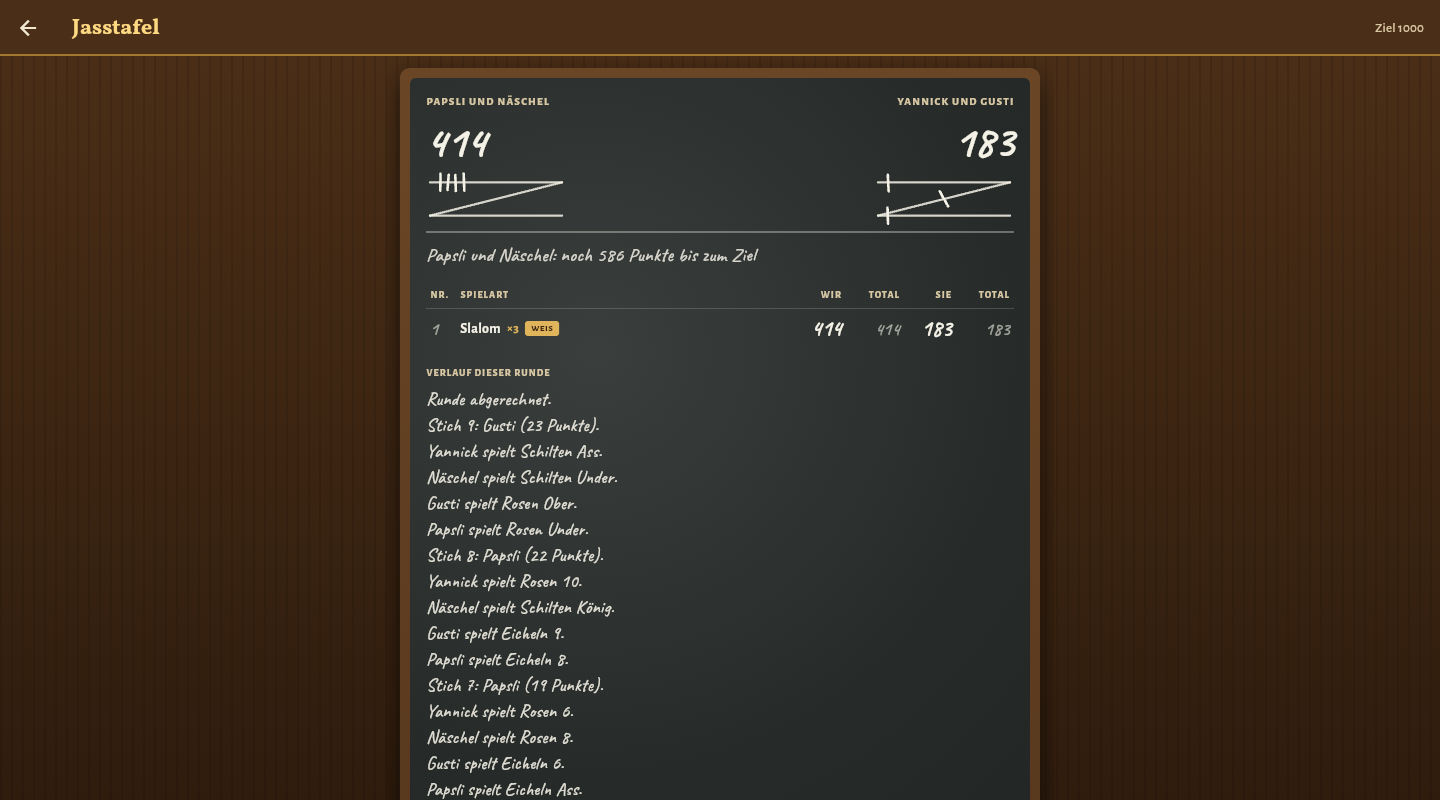
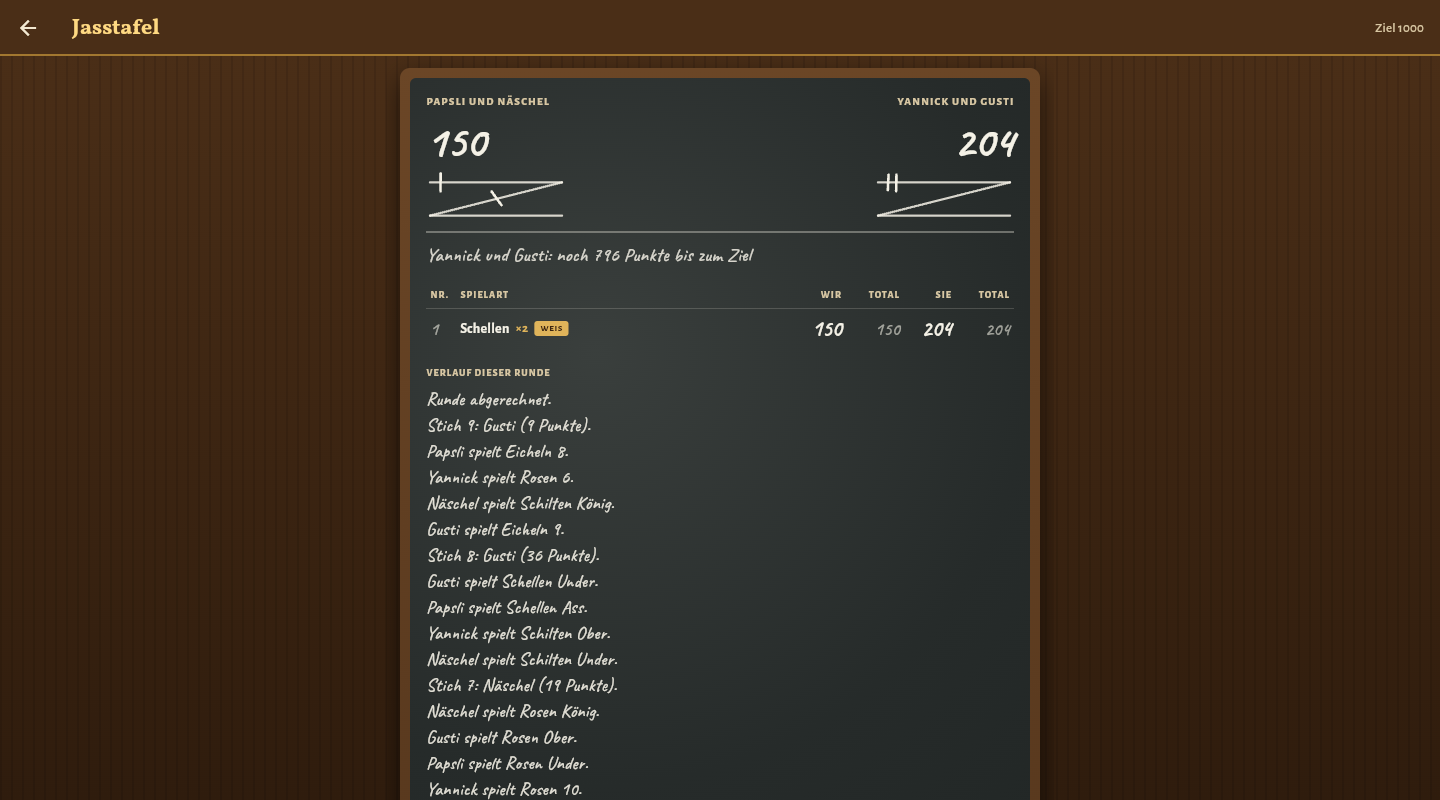
Bieter beginnt die Partie, Slalom-Runde zählt 157
- Bieterjass: Der Höchstbietende ist in der ersten Runde Vorhand – er sagt
  die Spielart an und spielt die erste Karte aus. Ab der zweiten Runde
  sagt wie üblich die Vorhand nach dem Geber an.
- Slalom: Nur die Rangfolge wechselt von Stich zu Stich; die Kartenwerte
  bleiben die der angesagten Richtung. Damit ergibt eine Runde in jeder
  Spielart 157 Punkte statt je nach Verteilung bis zu 179.
- Das Slalom-Fixture der Web-App ist entfernt, weil sie je Stich zählte;
  die Parität für die übrigen Schieber-Partien bleibt.

diff --git a/packages/jass_engine/test/slalom_stoeck_test.dart b/packages/jass_engine/test/slalom_stoeck_test.dart
@@ -54,11 +54,37 @@ void main() {
       expect(trickWinner(trick, RoundMode.slalom.trickMode(1)), 0);
     });
 
-    test('Kartenwerte folgen der Spielart des Stichs', () {
-      expect(cardPoints(card('rosen_ass'), RoundMode.slalom.trickMode(0)), 11);
-      expect(cardPoints(card('rosen_ass'), RoundMode.slalom.trickMode(1)), 0);
-      expect(cardPoints(card('rosen_6'), RoundMode.slalom.trickMode(0)), 0);
-      expect(cardPoints(card('rosen_6'), RoundMode.slalom.trickMode(1)), 11);
+    test('Kartenwerte folgen der angesagten Richtung, nicht dem einzelnen Stich', () {
+      // Von oben angesagt: das Ass zaehlt, die Sechs nicht - in jedem Stich.
+      expect(cardPoints(card('rosen_ass'), RoundMode.slalom), 11);
+      expect(cardPoints(card('rosen_6'), RoundMode.slalom), 0);
+      // Von unten angesagt: umgekehrt.
+      expect(cardPoints(card('rosen_ass'), RoundMode.slalomUneUfe), 0);
+      expect(cardPoints(card('rosen_6'), RoundMode.slalomUneUfe), 11);
+      // Darum ergibt eine Slalom-Runde wie jede andere 157 Punkte.
+      for (final mode in [RoundMode.slalom, RoundMode.slalomUneUfe]) {
+        expect(handValue(JassCard.deck, mode) + RuleSet.bachmann.lastTrickBonus, 157);
+      }
+    });
+
+    test('eine ganze Slalom-Runde ergibt 157 Punkte', () {
+      for (var seed = 1; seed <= 20; seed += 1) {
+        for (final mode in [RoundMode.slalom, RoundMode.slalomUneUfe]) {
+          var state = step(
+            createGame(variant: GameVariant.schieber, seed: seed),
+            const StartRound(),
+          );
+          state = step(state, ChooseMode(state.currentPlayer, mode));
+          while (state.phase != GamePhase.roundEnd && state.phase != GamePhase.gameOver) {
+            state = step(state, aiDecide(state) ?? const NextTrick());
+          }
+          expect(
+            state.players.fold(0, (sum, player) => sum + player.pointsWon),
+            157,
+            reason: 'Seed $seed, $mode',
+          );
+        }
+      }
     });
 
     test('kennt keinen Trumpf und zaehlt dreifach', () {

diff --git a/packages/jass_engine/test/ai_test.dart b/packages/jass_engine/test/ai_test.dart
@@ -28,16 +28,9 @@ GameState aiRound(GameState state) {
   return current;
 }
 
-/// Punkte der Runde, Stich fuer Stich nach der jeweiligen Spielart gezaehlt
-/// (im Slalom wechselt sie, darum ist die Summe dort nicht fest 157).
-int roundTrickPoints(GameState state) {
-  final mode = state.roundMode!;
-  var total = state.rules.lastTrickBonus;
-  for (var index = 0; index < state.roundTricks.length; index += 1) {
-    total += trickPoints(state.roundTricks[index].cards, mode.trickMode(index));
-  }
-  return total;
-}
+/// Punkte der Runde inklusive letztem Stich; in jeder Spielart 157.
+int roundTrickPoints(GameState state) =>
+    state.players.fold(0, (sum, player) => sum + player.pointsWon);
 
 void main() {
   group('Handbewertung', () {
@@ -185,11 +178,7 @@ void main() {
         );
         final ended = aiRound(step(state, const StartRound()));
         final summary = ended.roundSummary! as SchieberRoundSummary;
-        expect(
-          summary.results.fold(0, (sum, result) => sum + result.trickPoints),
-          roundTrickPoints(ended),
-        );
-        expect(ended.roundMode!.isSlalom || roundTrickPoints(ended) == 157, isTrue);
+        expect(summary.results.fold(0, (sum, result) => sum + result.trickPoints), 157);
         expect(summary.results.fold(0, (sum, result) => sum + result.tricksWon), 9);
       }
     });
@@ -199,11 +188,7 @@ void main() {
         final state = createGame(variant: GameVariant.bieter, seed: 20000 + index);
         final ended = aiRound(step(state, const StartRound()));
         expect(ended.players.every((player) => player.hand.isEmpty), isTrue);
-        expect(ended.roundMode!.isSlalom || roundTrickPoints(ended) == 157, isTrue);
-        expect(
-          ended.players.fold(0, (sum, player) => sum + player.pointsWon),
-          roundTrickPoints(ended),
-        );
+        expect(roundTrickPoints(ended), 157);
       }
     });
 

diff --git a/packages/jass_engine/lib/src/engine.dart b/packages/jass_engine/lib/src/engine.dart
@@ -154,8 +154,8 @@ GameState _startRound(GameState state, List<GameEvent> events) {
   final rng = Mulberry32(state.rngState);
   final hands = dealHands(playerCount, state.variant.dealPacketSize, dealer, rng);
 
-  // Bieterjass: die Vorhand (nach dem Geber) sagt reihum an, auch fuer den
-  // Bieter gilt keine Ausnahme. Beim Steigern ist sie die erste Bieterin.
+  // Bieterjass: die Vorhand (nach dem Geber) eroeffnet das Steigern und sagt
+  // ab der zweiten Runde reihum an; in der ersten Runde ist der Bieter Vorhand.
   var forehand = state.isBieter ? (dealer + 1) % playerCount : -1;
   if (state.isSchieber) {
     // Die Rosen 7 bestimmt nur den ersten Geber. Danach ruecken Geber und
@@ -313,15 +313,17 @@ GameState _finishBidding(GameState state, List<GameEvent> events) {
     BiddingWon(playerIndex: next.highestBidder, bid: next.highestBid, allPassed: allPassed),
   );
   // Ab jetzt stehen die Seiten fest: der Bieter (Team 0) gegen die beiden
-  // anderen (Team 1). Angesagt wird wie in jeder Runde von der Vorhand.
+  // anderen (Team 1). In der ersten Runde ist der Bieter die Vorhand: er sagt
+  // die Spielart an und spielt die erste Karte aus.
   final solo = next.highestBidder;
   return next.copyWith(
     players: [
       for (final player in next.players) player.copyWith(teamId: player.id == solo ? 0 : 1),
     ],
     soloPlayer: solo,
-    currentPlayer: next.forehandPlayer,
-    chooserPlayer: next.forehandPlayer,
+    forehandPlayer: solo,
+    currentPlayer: solo,
+    chooserPlayer: solo,
     phase: GamePhase.chooseTrump,
   );
 }

diff --git a/packages/jass_engine/lib/src/rollout.dart b/packages/jass_engine/lib/src/rollout.dart
@@ -172,7 +172,7 @@ final class _Sim {
       final mode = this.mode;
       final winner = trickWinner(trick, mode);
       final last = trickNumber == handSize - 1;
-      pointsBySide[sides[winner]] += trickPoints(trick, mode) + (last ? lastTrickBonus : 0);
+      pointsBySide[sides[winner]] += trickPoints(trick, roundMode) + (last ? lastTrickBonus : 0);
       tricksBySide[sides[winner]] += 1;
       trickNumber += 1;
       leader = winner;
@@ -218,7 +218,7 @@ JassCard _policy(_Sim sim, int player, List<JassCard> legal) {
   final trump = mode.trumpSuit;
   final hand = sim.hands[player];
   bool isTrump(JassCard card) => trump != null && card.suit == trump;
-  int points(JassCard card) => cardPoints(card, mode);
+  int points(JassCard card) => cardPoints(card, sim.roundMode);
   int rank(JassCard card) => rankIndex(card, mode);
   int suitLength(Suit suit) => hand.where((card) => card.suit == suit).length;
 
@@ -268,7 +268,7 @@ JassCard _policy(_Sim sim, int player, List<JassCard> legal) {
   if (cheap.isNotEmpty) {
     return _first(cheap, (a, b) => rank(a) - rank(b));
   }
-  final stake = trickPoints(sim.trick, mode);
+  final stake = trickPoints(sim.trick, sim.roundMode);
   final worth = lastSeat ? stake >= 4 : stake >= 10 || hand.where(isTrump).length >= 4;
   if (!worth) {
     final cheapest = discard();

diff --git a/packages/jass_engine/test/rules_test.dart b/packages/jass_engine/test/rules_test.dart
@@ -151,7 +151,11 @@ void main() {
 
       expect(state.phase, GamePhase.chooseTrump);
       expect(state.soloPlayer, first);
+      expect(state.currentPlayer, first, reason: 'der Bieter sagt in der ersten Runde an');
       expect(state.highestBid, 530);
+      final playing = step(state, ChooseMode(first, RoundMode.rosen));
+      expect(playing.trickLeader, first, reason: 'der Bieter spielt die erste Karte aus');
+      expect(playing.currentPlayer, first);
       expect(state.soloTarget, 530);
       expect(state.pairTarget, 1000);
       expect(state.players[first].teamId, 0);
@@ -185,6 +189,7 @@ void main() {
       state = step(state, PassBid(second));
       state = step(state, PassBid(third));
       final solo = state.soloPlayer;
+      expect(state.currentPlayer, solo, reason: 'Runde 1: der Bieter sagt an');
 
       var rounds = 0;
       while (state.phase != GamePhase.gameOver && rounds < 40) {
@@ -314,7 +319,7 @@ void main() {
     });
 
     test('Kartenwerte ergeben in jeder Spielart 157 inklusive letztem Stich', () {
-      for (final mode in [RoundMode.rosen, RoundMode.obeAbe, RoundMode.uneUfe]) {
+      for (final mode in RoundMode.values) {
         final total = handValue(JassCard.deck, mode);
         expect(total + RuleSet.bachmann.lastTrickBonus, 157, reason: 'Summe fuer $mode');
       }

diff --git a/packages/jass_engine/lib/src/cards.dart b/packages/jass_engine/lib/src/cards.dart
@@ -131,8 +131,10 @@ const List<int> _uneUfePoints = [11, 0, 8, 0, 10, 2, 3, 4, 0];
 // Staerke im Trumpf, indexiert mit Rank.index: 6 < 7 < 8 < 10 < Ober < Koenig < Ass < Nell < Puur.
 const List<int> _trumpStrength = [0, 1, 2, 7, 3, 8, 4, 5, 6];
 
-/// Kartenwert in einer Spielart. Slalom ohne Stichnummer zaehlt wie der erste
-/// Stich (obenabe); ohne Spielart gelten die Grundwerte.
+/// Kartenwert in einer Spielart. Hier zaehlt immer die **angesagte** Spielart:
+/// Im Slalom gelten die Werte der Startrichtung fuer die ganze Runde, damit
+/// alle Karten zusammen 152 Punkte ergeben (mit dem letzten Stich 157).
+/// Nur die Rangfolge wechselt im Slalom von Stich zu Stich, siehe [rankIndex].
 int cardPoints(JassCard card, RoundMode? roundMode) {
   final mode = roundMode?.trickMode(0);
   switch (mode) {
@@ -147,7 +149,8 @@ int cardPoints(JassCard card, RoundMode? roundMode) {
   }
 }
 
-/// Staerke einer Karte innerhalb ihrer Farbe; hoeher sticht.
+/// Staerke einer Karte innerhalb ihrer Farbe; hoeher sticht. Im Slalom gehoert
+/// hier die Spielart des laufenden Stichs hin (`roundMode.trickMode(nummer)`).
 int rankIndex(JassCard card, RoundMode? roundMode) {
   final mode = roundMode?.trickMode(0);
   if (mode == RoundMode.uneUfe) {

diff --git a/packages/jass_engine/lib/src/trick_play.dart b/packages/jass_engine/lib/src/trick_play.dart
@@ -60,11 +60,14 @@ GameState nextTrick(GameState state, List<GameEvent> events) {
 }
 
 GameState _resolveTrick(GameState state, List<GameEvent> events) {
-  final mode = state.trickMode;
-  final winner = trickWinner(state.trick, mode);
+  // Gestochen wird nach der Spielart des Stichs (im Slalom wechselnd),
+  // gezaehlt nach der angesagten Spielart der Runde: So ergeben die Karten
+  // einer Runde immer 152 Punkte, mit dem letzten Stich 157.
+  final winner = trickWinner(state.trick, state.trickMode);
   final pileId = pileIdForWinner(state, winner);
   final isLastTrick = state.trickNumber == state.variant.handSize - 1;
-  final points = trickPoints(state.trick, mode) + (isLastTrick ? state.rules.lastTrickBonus : 0);
+  final points =
+      trickPoints(state.trick, state.roundMode) + (isLastTrick ? state.rules.lastTrickBonus : 0);
   final winningPlayer = state.players[winner];
 
   events.add(

diff --git a/packages/jass_engine/lib/src/ai.dart b/packages/jass_engine/lib/src/ai.dart
@@ -314,7 +314,8 @@ final class _Play {
 
   bool isTrump(JassCard card) => trump != null && card.suit == trump;
 
-  int points(JassCard card) => cardPoints(card, mode);
+  /// Gezaehlt wird nach der angesagten Spielart, gestochen nach der des Stichs.
+  int points(JassCard card) => cardPoints(card, state.roundMode);
 
   int rank(JassCard card) => rankIndex(card, mode);
 
@@ -532,7 +533,7 @@ JassCard _chooseFollow(_Play play) {
   final partnerWinning =
       play.sameSide(state, currentWinner, play.seat) && currentWinner != play.seat;
   final isLastSeat = state.trick.length == state.players.length - 1;
-  final pointsAtStake = trickPoints(state.trick, play.mode);
+  final pointsAtStake = trickPoints(state.trick, state.roundMode);
   final winningCards = play.legal.where(play.wouldWin).toList();
 
   if (partnerWinning) {

diff --git a/packages/jass_engine/lib/src/rules.dart b/packages/jass_engine/lib/src/rules.dart
@@ -134,8 +134,10 @@ int trickWinner(List<TrickEntry> trick, RoundMode? trickMode) {
   return best.playerIndex;
 }
 
-int trickPoints(List<TrickEntry> trick, RoundMode? trickMode) =>
-    trick.fold(0, (sum, entry) => sum + cardPoints(entry.card, trickMode));
+/// Punkte eines Stichs. [roundMode] ist die angesagte Spielart der Runde,
+/// nicht die des Stichs: Im Slalom behalten die Karten ihre Werte.
+int trickPoints(List<TrickEntry> trick, RoundMode? roundMode) =>
+    trick.fold(0, (sum, entry) => sum + cardPoints(entry.card, roundMode));
 
 int handValue(List<JassCard> hand, RoundMode? mode) =>
     hand.fold(0, (sum, card) => sum + cardPoints(card, mode));

diff --git a/packages/jass_engine/test/engine_test.dart b/packages/jass_engine/test/engine_test.dart
@@ -18,7 +18,7 @@ void expectCleanRoundEnd(GameState state) {
   final tricks = state.players.fold(0, (sum, player) => sum + player.tricksWon);
   expect(tricks, state.variant.handSize, reason: 'Anzahl Stiche');
   final trickPoints = state.players.fold(0, (sum, player) => sum + player.pointsWon);
-  expect(trickPoints, 157, reason: 'Stichpunkte einer Rosen-Runde');
+  expect(trickPoints, 157, reason: 'Stichpunkte einer Runde');
 
   if (state.stoeckPlayer >= 0) {
     expect(

diff --git a/docs/UMSETZUNGSPLAN.md b/docs/UMSETZUNGSPLAN.md
@@ -258,13 +258,15 @@ Ziel dieser Phase: Die Dart-Engine verhält sich nachweislich genau wie `game-en
 - **Stand:** ✅ Neue KI in `packages/jass_engine/lib/src/rollout.dart`: Die Stufen Normal und Schwer entscheiden per Stichprobe. Die unbekannten Karten werden mehrmals zufällig, aber mit dem bisherigen Spiel verträglich verteilt (wer eine Farbe nicht bedienen konnte, bekommt sie nicht), jede Möglichkeit wird mit einer schnellen Spielweise zu Ende gespielt, und gewählt wird die Karte, Spielart oder das Gebot mit dem besten Punkteschnitt. Normal nutzt 16 Stichproben je Karte, Schwer 64. Einfach entspricht der bisherigen stärksten Stufe (Stellungsspiel plus Kartengedächtnis). Die Web-App-KI bleibt für den Paritätstest unter `AiTuning.webApp` erhalten.
 - **Gemessen** (`tool/benchmark.dart`, 200 Verteilungen mit getauschten Sitzen, Schieber auf 1000): Schwer gewinnt 72 % gegen die alte Top-Stufe, Normal 65 % gegen das neue Einfach, Schwer 63 % gegen Normal; Rechenzeit unter 2 ms je Entscheidung. Bieterjass (`tool/benchmark_bieter.dart`): Normal und Schwer gewinnen 94–97 % der Partien gegen zwei Web-App-Gegner (vorher 66 %), erfüllte Gebote 95 % statt 65 %.
 - Dazu: Slalom lässt sich von oben oder von unten ansagen (`RoundMode.slalomUneUfe`), die KI wählt die Richtung mit.
+- Korrektur (16.09.2026): Im Slalom wechselt nur noch die Rangfolge von Stich zu Stich; die Kartenwerte bleiben die der angesagten Richtung. Damit ergibt eine Runde in jeder Spielart 157 Punkte (vorher je nach Verteilung bis 179). Das Slalom-Fixture der Web-App ist deshalb entfernt.
 
 #### AP 1.7 Bieterjass nach Familienregeln · 🟡 Claude + Input · M
 
 - Rückmeldung vom Handy-Test: Die Web-App bot je Runde 60–157 Stichpunkte; die Familie steigert einmal zu Beginn der Partie ab 400/450/500 und spielt dann Bieter gegen die beiden anderen bis zum Ziel (Gebot bzw. 1000).
-- **Stand:** ✅ Engine umgebaut (`engine.dart`, `trick_play.dart`, `round.dart`): Steigern nur in Runde 1, Anfangsgebot in `MatchConfig.bieterStartBid`, Mindestschritt 10, Passen alle → Geber mit Anfangsgebot; der Bieter sagt jede Runde an; Rundenpunkte (mal Multiplikator je Zählweise) laufen auf Gebot bzw. 1000 zu; Ende mit dem Stich, in dem eine Seite ihr Ziel erreicht. Setup mit Anfangsgebot (400/450/500/eigene Zahl), Gebotspanel mit −10/+10/+50, Punkteleiste und Jasstafel je Seite, Regeltext, Statistik „Als Bieter gewonnen“. Die Computer steigern bis zu einer Schmerzgrenze zwischen 450 und 650 (aus dem Seed, leicht nach der ersten Hand verschoben), so endet das Steigern meist in diesem Bereich und ein Mensch wird hochgetrieben.
+- **Stand:** ✅ Engine umgebaut (`engine.dart`, `trick_play.dart`, `round.dart`): Steigern nur in Runde 1, Anfangsgebot in `MatchConfig.bieterStartBid`, Mindestschritt 10, Passen alle → Geber mit Anfangsgebot; in der ersten Runde sagt der Bieter die Spielart an und spielt die erste Karte aus, danach reihum die Vorhand (gemessen: sagt der Bieter jede Runde an, gewinnt er 58 von 60 Partien; reihum sind es 7–27 von 60 je nach Stufe); Rundenpunkte (mal Multiplikator je Zählweise) laufen auf Gebot bzw. 1000 zu; Ende mit dem Stich, in dem eine Seite ihr Ziel erreicht. Setup mit Anfangsgebot (400/450/500/eigene Zahl), Gebotspanel mit −10/+10/+50, Punkteleiste und Jasstafel je Seite, Regeltext, Statistik „Als Bieter gewonnen“. Die Computer steigern bis zu einer Schmerzgrenze zwischen 450 und 650 (aus dem Seed, leicht nach der ersten Hand verschoben), so endet das Steigern meist in diesem Bereich und ein Mensch wird hochgetrieben.
 - Die alten Bieterjass-Paritätsfixtures der Web-App sind entfernt; Parität gilt weiter für den Schieber.
 - 🟡 Bitte prüfen: Zehnerschritte beim Steigern, Geber spielt mit dem Anfangsgebot, wenn alle passen, Partieende mitten in der Runde.
+- Bestätigt (16.09.2026): Der Bieter beginnt die Partie – er sagt in der ersten Runde die Spielart an und spielt die erste Karte aus. Im Schieber ist im allerersten Spiel der Halter der Rosen 7 Vorhand, sagt an und spielt aus (war schon so, über 200 Seeds geprüft).
 
 ### Phase 2 – App-Architektur
 
